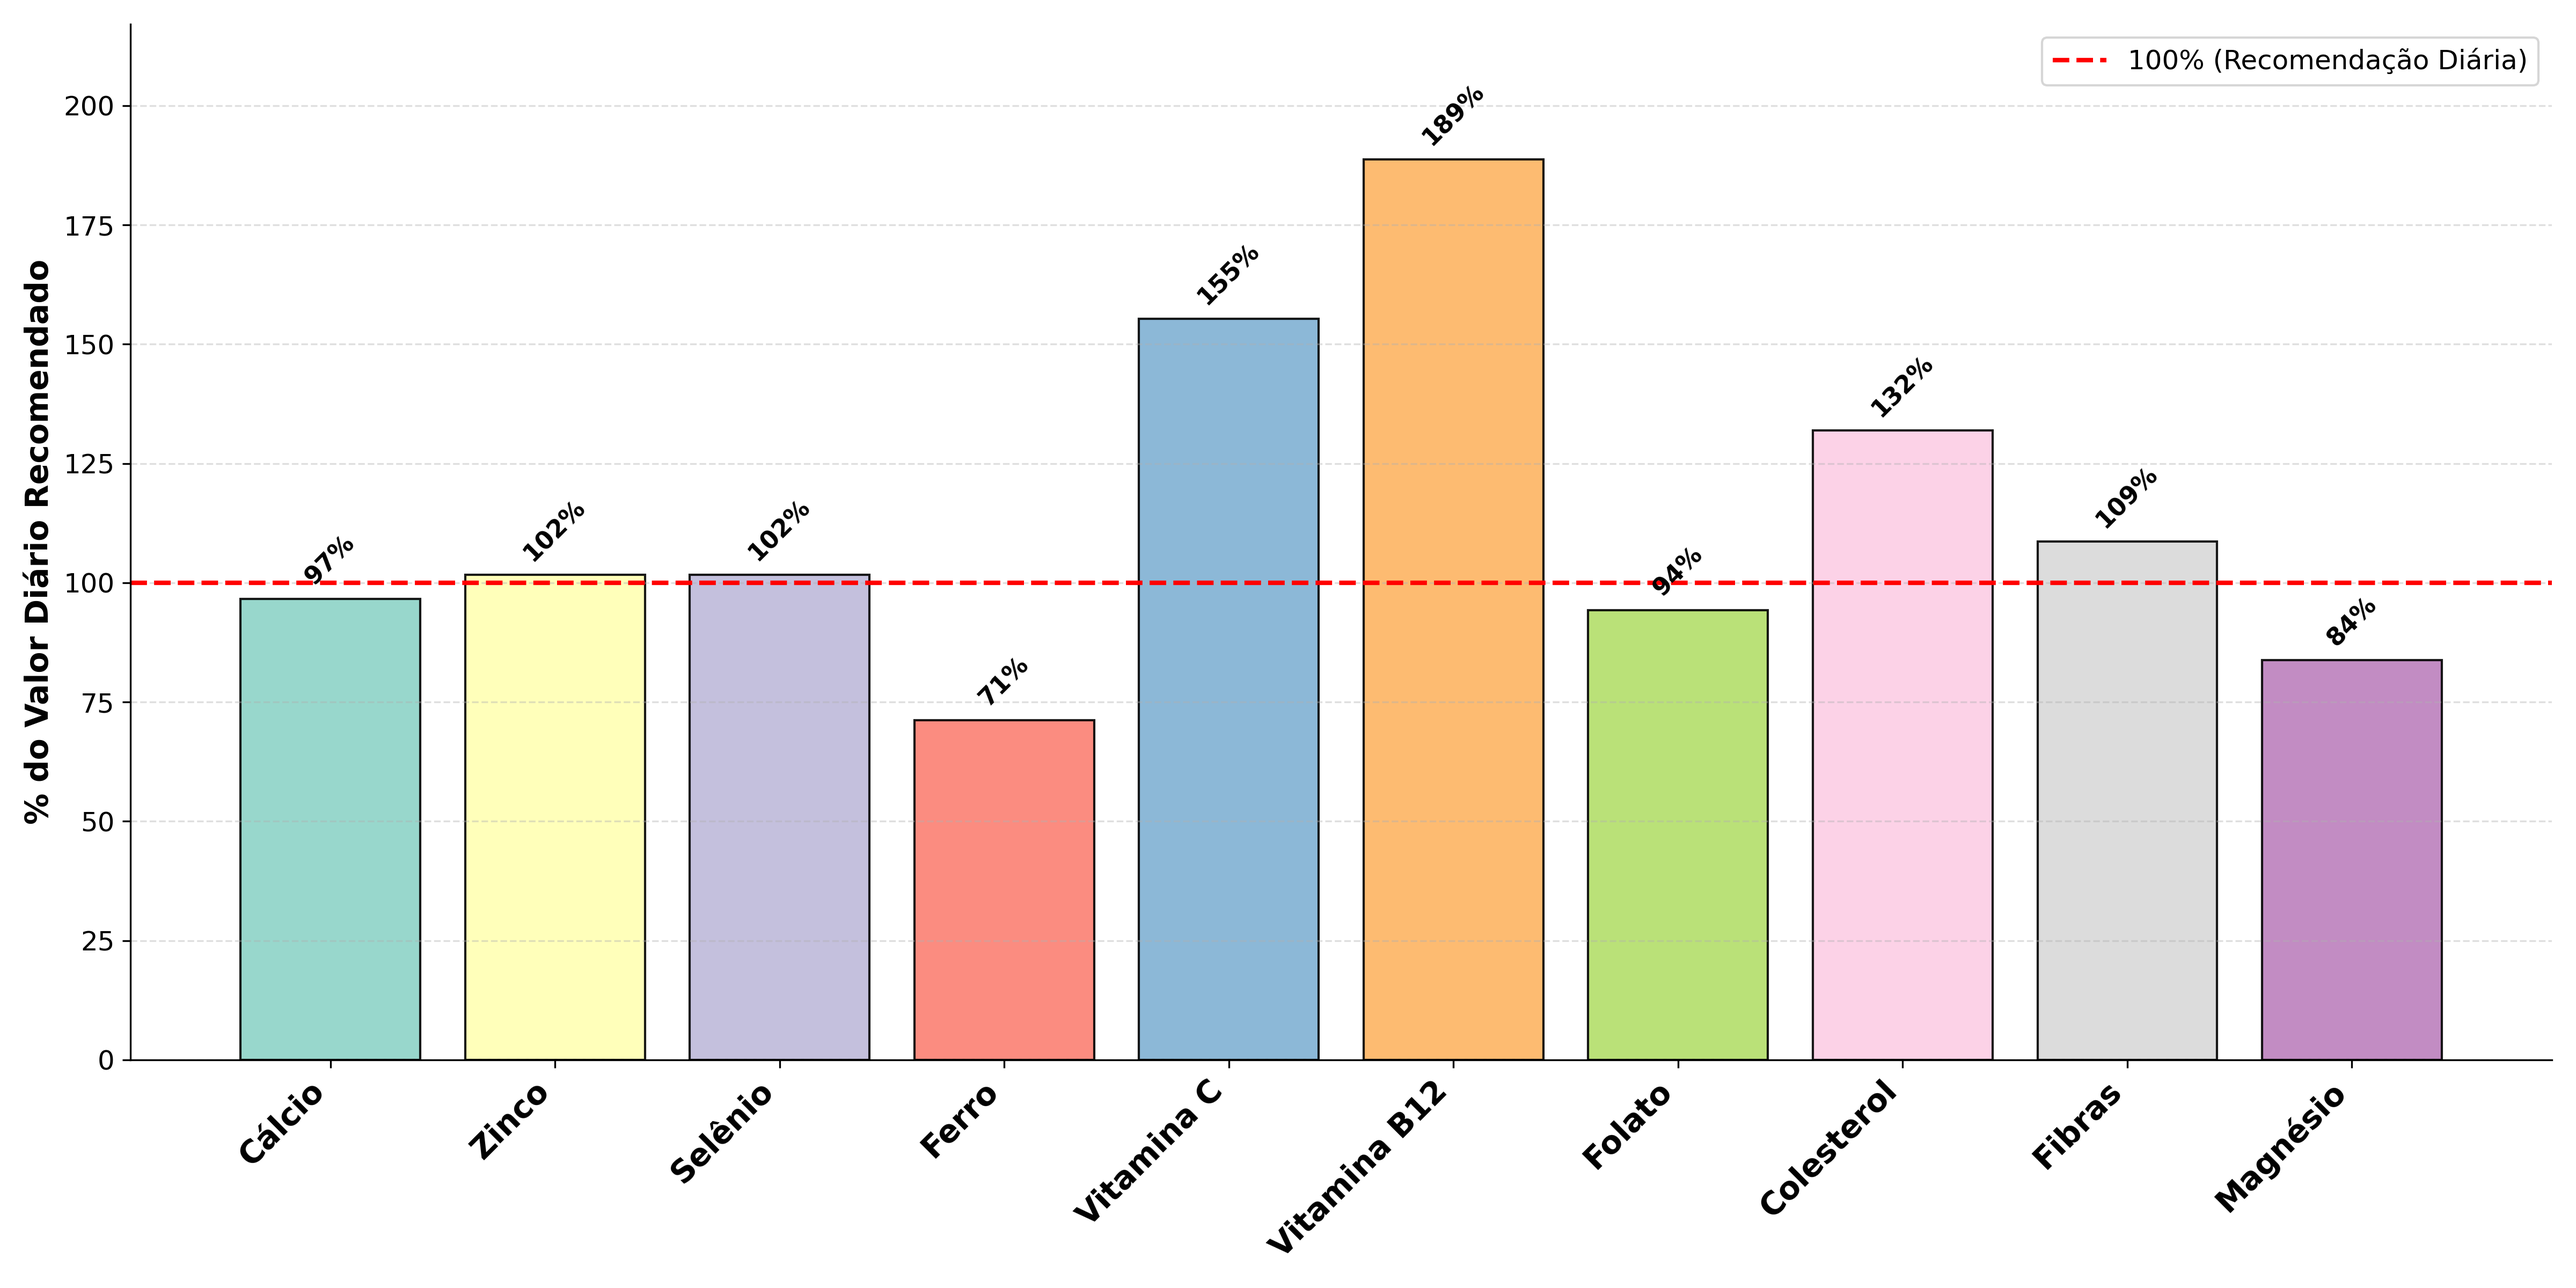
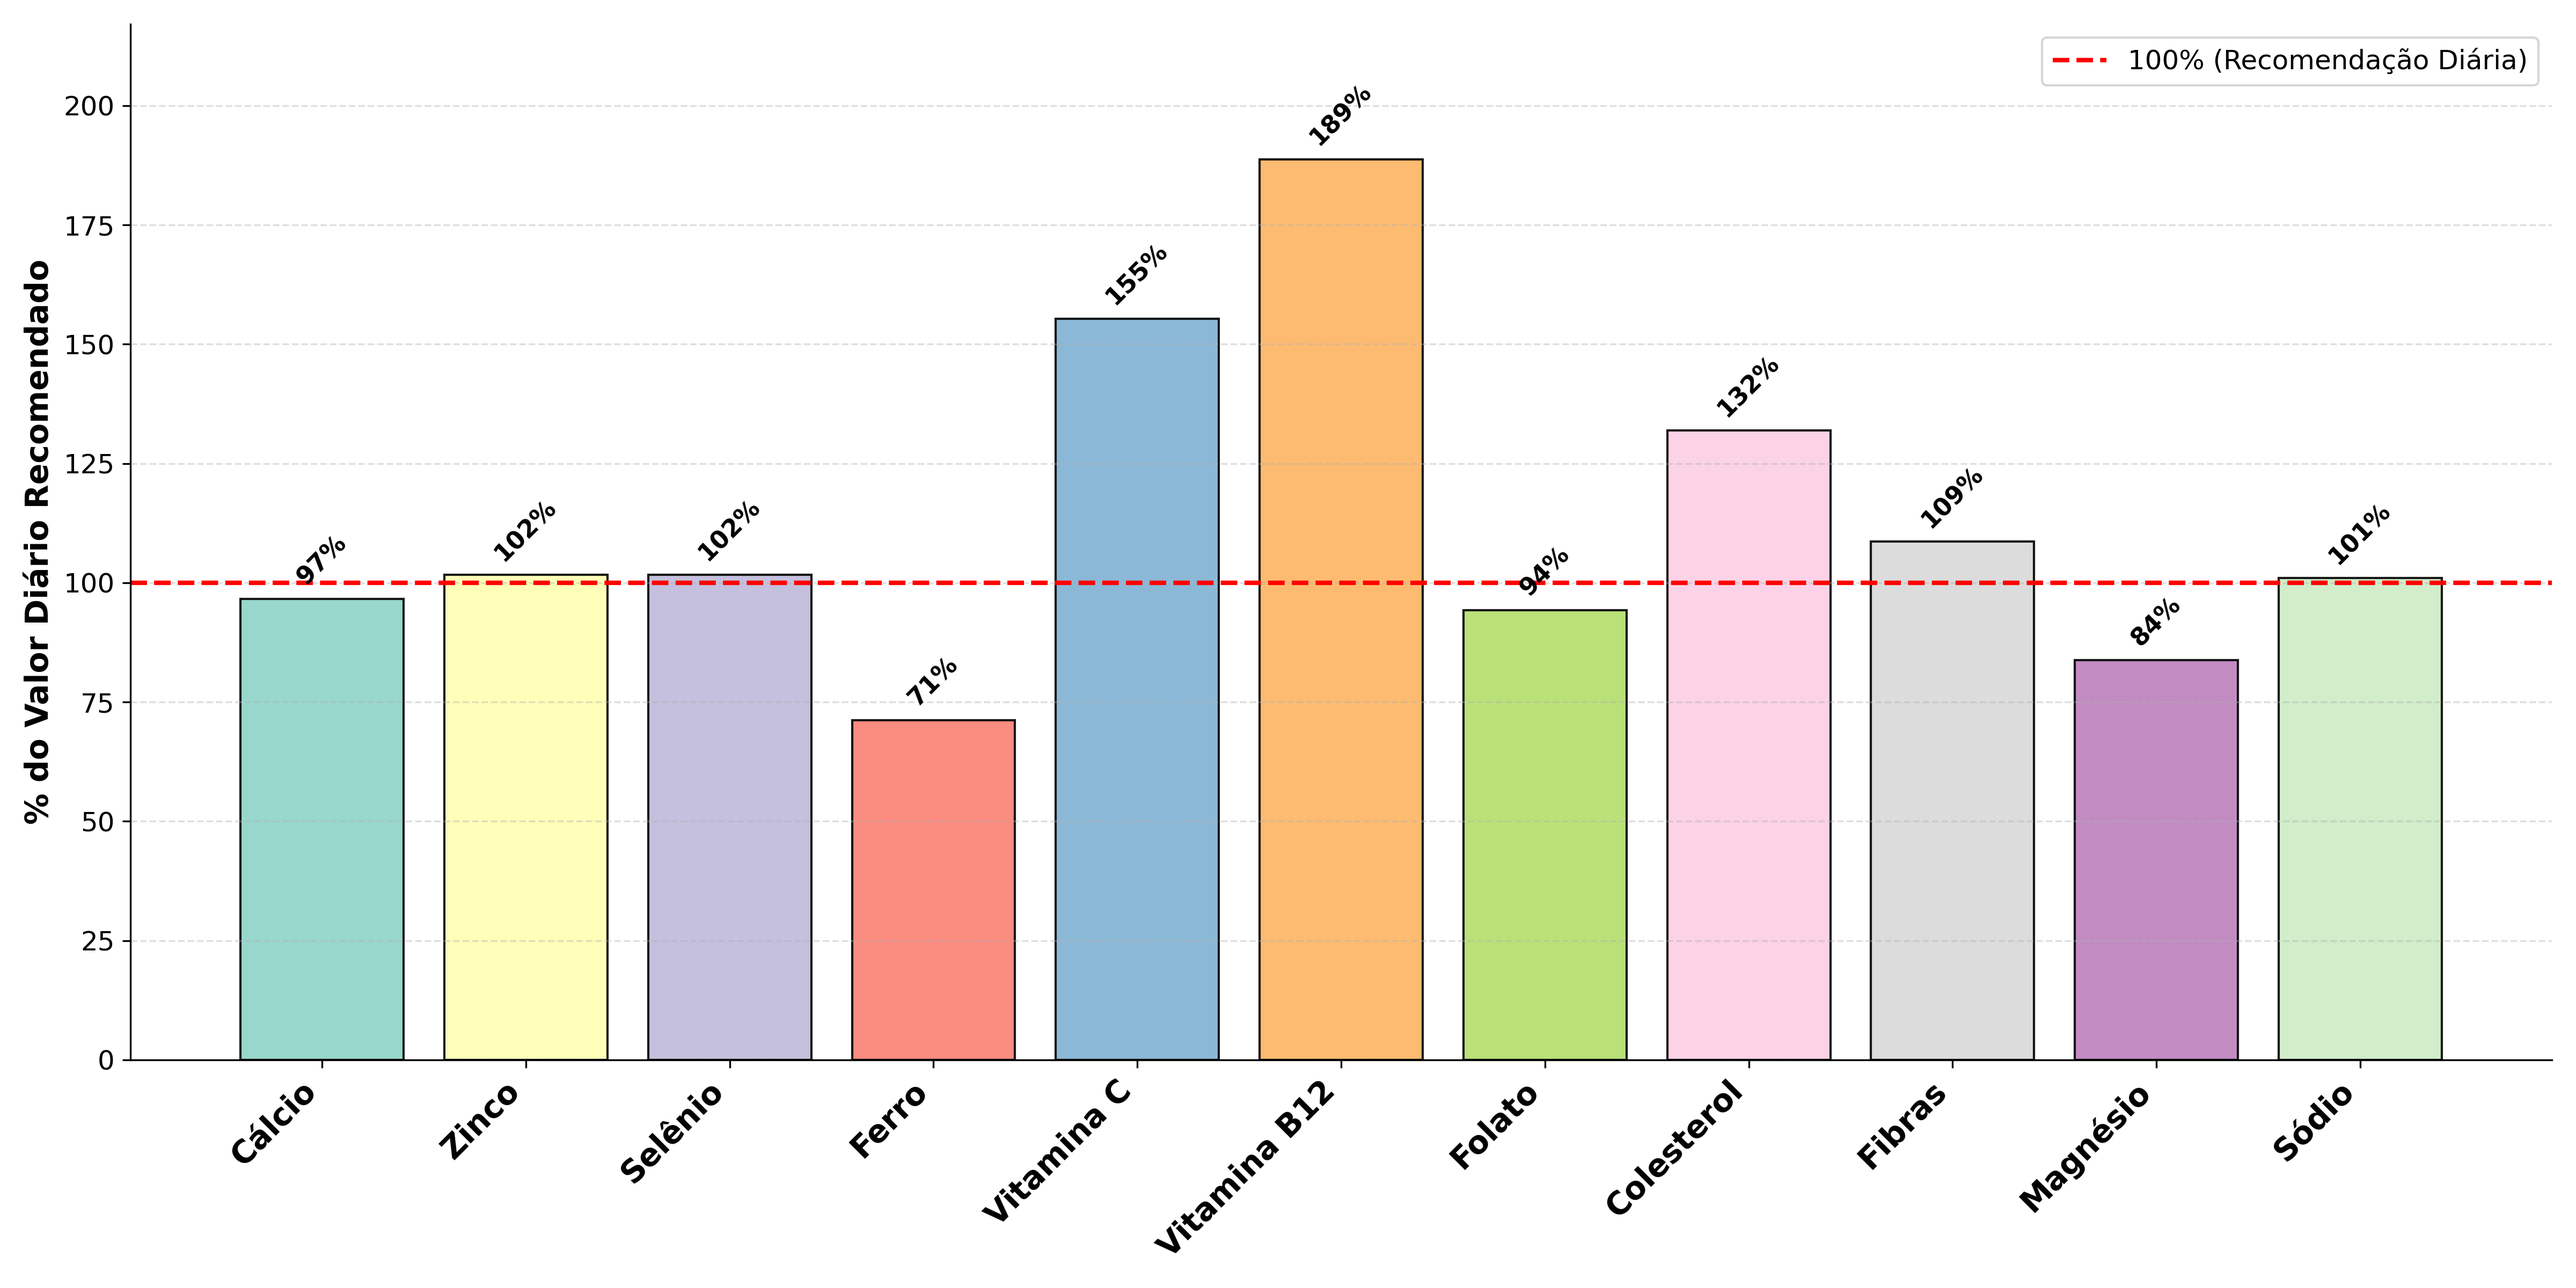
Adição de sódio nos micronutrientes

diff --git a/rcsc/grafico_nutrientes.py b/rcsc/grafico_nutrientes.py
@@ -40,7 +40,7 @@ except ImportError:
 
 MACROS = ["Energia", "Proteína", "Lipídeos Totais", "Gordura Saturada"]
 MICROS = ["Cálcio", "Zinco", "Selênio", "Ferro", "Vitamina C", "Vitamina B12", 
-          "Folato", "Colesterol", "Fibras", "Magnésio"]
+          "Folato", "Colesterol", "Fibras", "Magnésio", "Sódio"]
 
 VALORES_DIARIOS_RECOMENDADOS = {
     "Energia": 2000.0,         # kcal
@@ -56,7 +56,8 @@ VALORES_DIARIOS_RECOMENDADOS = {
     "Folato": 400.0,           # mcg
     "Colesterol": 300.0,       # mg (Limite)
     "Fibras": 25.0,            # g
-    "Magnésio": 400.0          # mg
+    "Magnésio": 400.0,         # mg
+    "Sódio": 2000.0            # mg (Limite recomendado OMS/ANVISA)
 }
 
 def normalizar_nome_nutriente(nome_tbca):
@@ -75,6 +76,7 @@ def normalizar_nome_nutriente(nome_tbca):
     if "colesterol" in n: return "Colesterol"
     if "fibra" in n: return "Fibras"
     if "magnésio" in n or "magnesio" in n: return "Magnésio"
+    if "sódio" in n or "sodio" in n: return "Sódio"
     return None 
 
 # ==============================================================================
